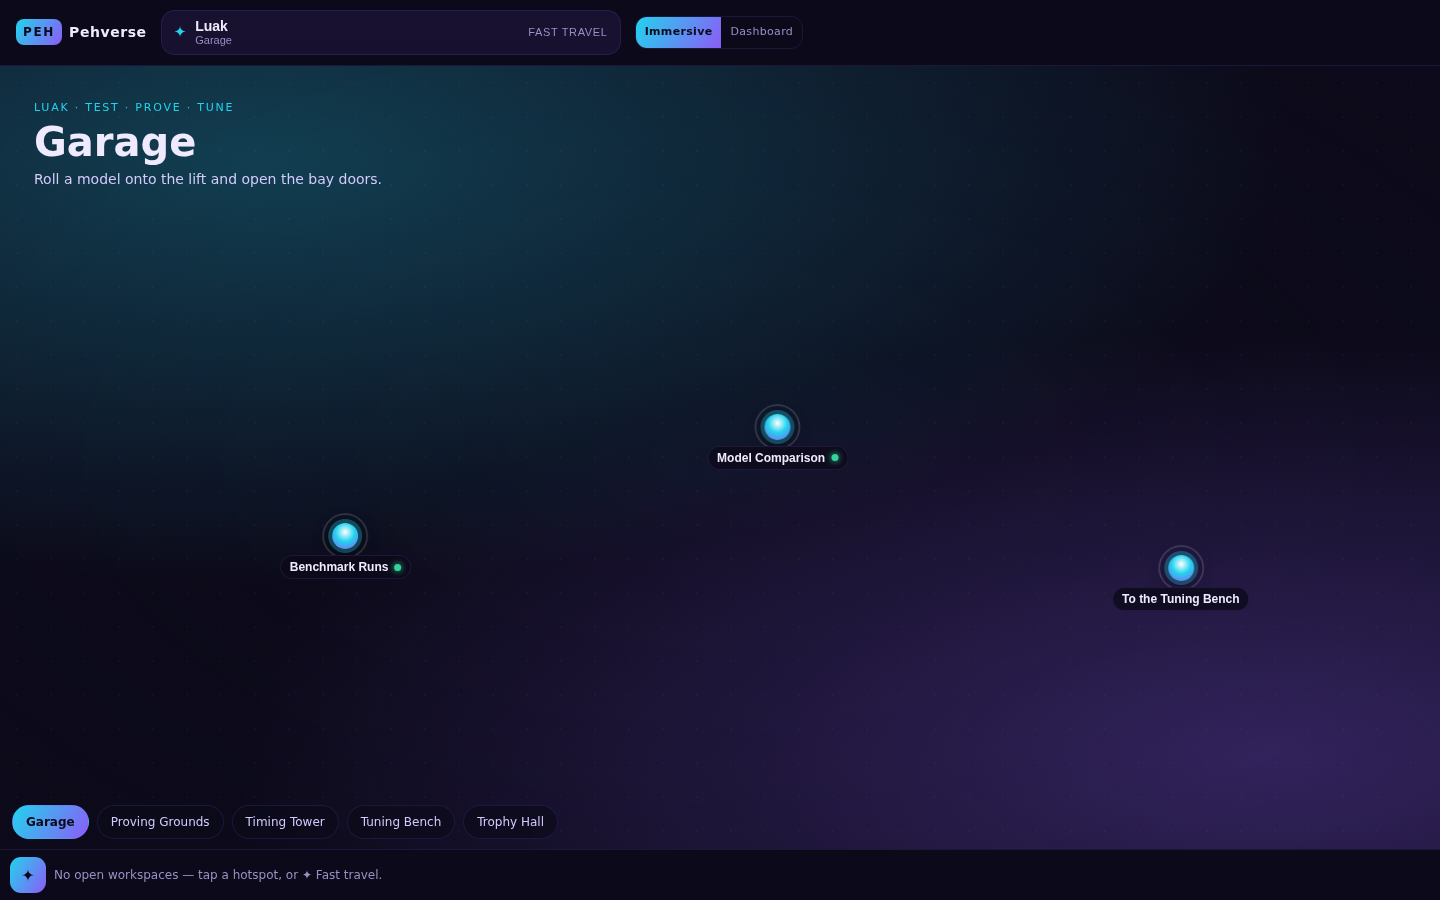
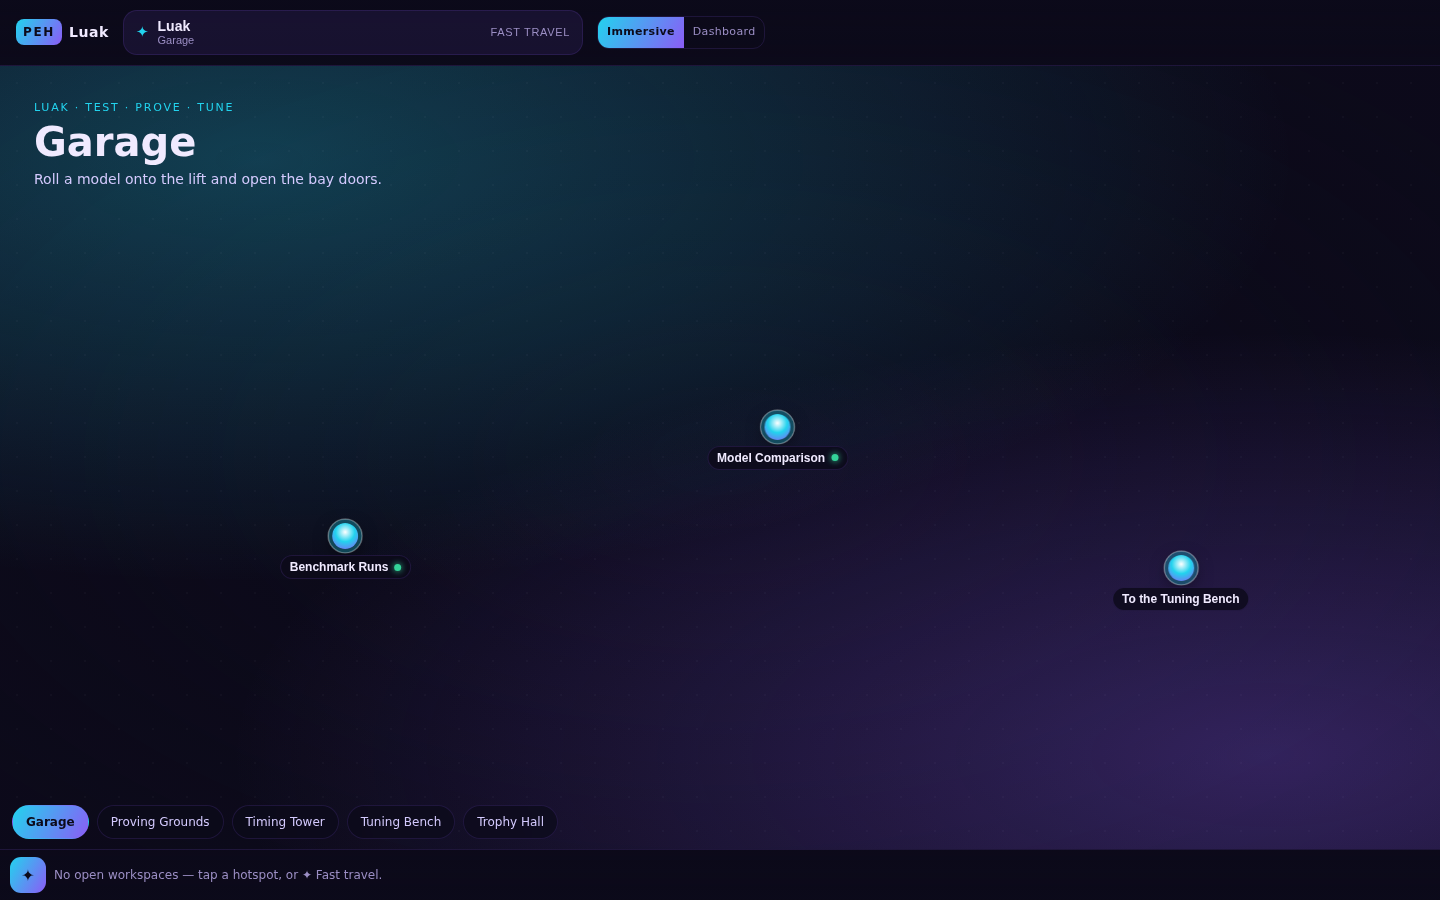
pehverse: document standalone product boundaries
Phase 1.2 — terminology cleanup + release-boundary hardening. Keeps the
Phase 1.1 single-product isolation behavior; clarifies wording and adds
guards so future work cannot drift back into a shared multi-product runtime.

Terminology cleanup (product / scene-area / workspace / Pehverse-as-ecosystem):
- Reworded engine comments that framed products as "realms inside one shared
  app" (now: standalone product, sub-area, no multi-product grid).
- Renamed the CSS class .peh-scene-realm -> .peh-scene-tag (markup + styles);
  same visuals.
- Removed dead Phase-1 multi-product fast-travel CSS (.peh-ft-realm*,
  .peh-ft-future, .peh-ft-soon, .peh-ft-mark) — fast travel never enumerates
  products. "realm" no longer appears in the engine as routing architecture
  (kept only as a comment noting the removed rules).

Docs (docs/PEHVERSE_WORLD_ENGINE.md):
- New "Pehverse is an ecosystem pattern, not a runtime router" section
  stating: each product owns its own world-shell; no cross-product navigation
  in release; the dev switcher is not a public feature; future products
  copy/instantiate the pattern rather than plug into one shared public shell.
- Defined the vocabulary (product / scene-area / workspace / Pehverse) and
  scoped "realm" to lore/branding only.

Tests (tests/pehverse-product-isolation.test.ts):
- Added a behavioural sandbox that extracts the pure isolation functions +
  registries and executes them with stubbed globals, proving at runtime:
[…]

Changed region(s): [[0.3438, 0.0, 0.5625, 0.0622], [0.0625, 0.0, 0.1562, 0.0622], [0.2188, 0.56, 0.25, 0.5911]]

diff --git a/tests/pehverse-product-isolation.test.ts b/tests/pehverse-product-isolation.test.ts
@@ -214,4 +214,122 @@ describe('Pehverse product isolation — runtime guards (source)', () => {
     assert.ok(!/function pehTravel\(/.test(HTML), 'legacy cross-product pehTravel must be removed');
     assert.ok(!HTML.includes('REALM_REGISTRY'), 'legacy REALM_REGISTRY must be renamed to PRODUCT_REGISTRY');
   });
+
+  it('"realm" is gone from the engine as routing architecture', () => {
+    // Phase 1.2 terminology cleanup: the engine block must not use "realm".
+    const engine = HTML.slice(HTML.indexOf('PEHVERSE WORLD ENGINE'));
+    assert.ok(!/\brealm\b/i.test(engine.replace(/\.peh-ft-realm/g, '')),
+      'engine code/comments must not use "realm" as routing architecture');
+  });
+});
+
+// ── Behavioural sandbox ────────────────────────────────────────────────
+// Extract the pure isolation functions + registries and execute them with
+// stubbed globals, so we prove the actual runtime guarantees (not just that
+// the source mentions a guard). The functions reference `state`, `window`,
+// `location`, `localStorage` — we supply those as constructor params (their
+// names are not reserved), giving each scenario fresh closures.
+function extractFn(name: string): string {
+  const anchor = HTML.indexOf('function ' + name + '(');
+  assert.ok(anchor > -1, `function ${name} not found`);
+  let i = anchor;
+  while (i < HTML.length && HTML[i] !== '{') i++;
+  let depth = 0;
+  let str: string | null = null;
+  let line = false;
+  let block = false;
+  for (; i < HTML.length; i++) {
+    const c = HTML[i];
+    const n = HTML[i + 1];
+    if (line) { if (c === '\n') line = false; continue; }
+    if (block) { if (c === '*' && n === '/') { block = false; i++; } continue; }
+    if (str) { if (c === '\\') { i++; continue; } if (c === str) str = null; continue; }
+    if (c === '/' && n === '/') { line = true; i++; continue; }
+    if (c === '/' && n === '*') { block = true; i++; continue; }
+    if (c === '"' || c === "'" || c === '`') { str = c; continue; }
+    if (c === '{') depth++;
+    else if (c === '}') { depth--; if (depth === 0) return HTML.slice(anchor, i + 1); }
+  }
+  throw new Error(`could not balance function ${name}`);
+}
+
+function makeStorage(seed: Record<string, string> = {}) {
+  const m = new Map<string, string>(Object.entries(seed));
+  return {
+    getItem: (k: string) => (m.has(k) ? m.get(k)! : null),
+    setItem: (k: string, v: string) => { m.set(k, String(v)); },
+    removeItem: (k: string) => { m.delete(k); },
+  };
+}
+
+const ENGINE_SRC = [
+  'const PRODUCT_REGISTRY=' + extractLiteral('PRODUCT_REGISTRY') + ';',
+  'const SCENE_REGISTRY=' + extractLiteral('SCENE_REGISTRY') + ';',
+  'const WORKSPACE_REGISTRY=' + extractLiteral('WORKSPACE_REGISTRY') + ';',
+  (HTML.match(/const PEH_DEFAULT_PRODUCT='[^']+';/) || ['const PEH_DEFAULT_PRODUCT=\'luak\';'])[0],
+  extractFn('pehProduct'),
+  extractFn('pehPublicProducts'),
+  extractFn('pehFutureProducts'),
+  extractFn('pehScenes'),
+  extractFn('pehScene'),
+  extractFn('pehWorkspaceDef'),
+  extractFn('pehDevMode'),
+  extractFn('pehResolveActiveProduct'),
+  extractFn('pehActiveProduct'),
+  extractFn('pehActiveProductId'),
+  extractFn('pehWorkspaceBelongsToActive'),
+].join('\n');
+
+// eslint-disable-next-line @typescript-eslint/no-implied-eval
+const makeEngine = new Function(
+  'state', 'window', 'location', 'localStorage',
+  ENGINE_SRC + '\nreturn {pehResolveActiveProduct,pehActiveProductId,pehWorkspaceBelongsToActive,pehDevMode};',
+) as (state: any, window: any, location: any, localStorage: any) => any;
+
+function engine(opts: { product?: string; win?: any; ls?: Record<string, string> } = {}) {
+  const state = { pehverse: { product: opts.product ?? 'luak' } };
+  return makeEngine(state, opts.win ?? {}, undefined, makeStorage(opts.ls));
+}
+
+describe('Pehverse product isolation — runtime behaviour (sandbox)', () => {
+  it('default runtime resolves to the single default product (luak)', () => {
+    const e = engine();
+    assert.equal(e.pehResolveActiveProduct(), 'luak');
+    assert.equal(e.pehDevMode(), false, 'dev mode must be off by default → no switcher in release');
+  });
+
+  it('a private product can NEVER become active (build flag ignored)', () => {
+    assert.equal(engine({ win: { PEHVERSE_PRODUCT: 'symposium' } }).pehResolveActiveProduct(), 'luak');
+    // Even if state is tampered to a private product, the active accessor falls back.
+    assert.equal(engine({ product: 'symposium' }).pehActiveProductId(), 'luak');
+  });
+
+  it('a future product can NEVER become active (build flag ignored)', () => {
+    assert.equal(engine({ win: { PEHVERSE_PRODUCT: 'kokuli' } }).pehResolveActiveProduct(), 'luak');
+    assert.equal(engine({ product: 'toba' }).pehActiveProductId(), 'luak');
+  });
+
+  it('the dev localStorage override is IGNORED unless dev mode is on', () => {
+    // Saved product but no dev flag → stays default.
+    assert.equal(engine({ ls: { 'pehverse-product': 'trials' } }).pehResolveActiveProduct(), 'luak');
+    // Dev flag on → override honored (dev/demo only).
+    const dev = engine({ ls: { 'pehverse-dev': '1', 'pehverse-product': 'trials' } });
+    assert.equal(dev.pehDevMode(), true);
+    assert.equal(dev.pehResolveActiveProduct(), 'trials');
+  });
+
+  it('a valid build flag selects the product (Option A, one per runtime)', () => {
+    assert.equal(engine({ win: { PEHVERSE_PRODUCT: 'trials' } }).pehResolveActiveProduct(), 'trials');
+  });
+
+  it('cross-product workspace ownership is enforced both directions', () => {
+    const luak = engine({ product: 'luak' });
+    assert.equal(luak.pehWorkspaceBelongsToActive(WORKSPACES['benchmark-runs']), true);
+    assert.equal(luak.pehWorkspaceBelongsToActive(WORKSPACES['adversarial-trials']), false, 'Luak must not open a Kobli workspace');
+    assert.equal(luak.pehWorkspaceBelongsToActive(WORKSPACES['console']), true, 'null-product console is per-product');
+
+    const trials = engine({ product: 'trials' });
+    assert.equal(trials.pehWorkspaceBelongsToActive(WORKSPACES['adversarial-trials']), true);
+    assert.equal(trials.pehWorkspaceBelongsToActive(WORKSPACES['benchmark-runs']), false, 'Kobli must not open a Luak workspace');
+  });
 });

diff --git a/ui/crucibulum.css b/ui/crucibulum.css
@@ -2638,7 +2638,7 @@ body::after {
    world-map / theme-park hub with tappable hotspot pins and full-screen
    bottom-sheet workspaces. Desktop (≥880px) gains docked side/bottom/
    fullscreen panels and a multi-tile dashboard grid. All colour comes
-   from the per-realm --peh-accent / --peh-accent2 set inline on .peh-shell.
+   from the active product's --peh-accent / --peh-accent2 set inline on .peh-shell.
    ══════════════════════════════════════════════════════════════════════ */
 #app:has(.peh-shell){padding:0}
 
@@ -2705,7 +2705,7 @@ body::after {
   background-size:34px 34px;opacity:.5;mix-blend-mode:screen;
 }
 .peh-scene-caption{position:relative;z-index:2;padding:18px 16px 4px;max-width:560px}
-.peh-scene-realm{font-size:11px;letter-spacing:.16em;text-transform:uppercase;color:var(--peh-accent)}
+.peh-scene-tag{font-size:11px;letter-spacing:.16em;text-transform:uppercase;color:var(--peh-accent)}
 .peh-scene-title{font-size:clamp(24px,7vw,40px);line-height:1.05;margin:4px 0 6px;font-weight:800}
 .peh-scene-desc{font-size:14px;color:var(--ink-soft);margin:0;max-width:46ch}
 
@@ -2735,7 +2735,7 @@ body::after {
 .peh-hotspot:focus-visible{outline:none}
 .peh-hotspot:focus-visible .peh-hotspot-label{outline:2px solid var(--peh-accent);outline-offset:2px}
 
-/* ── Waypoints (intra-realm scene hops) ────────────────────────────── */
+/* ── Waypoints (intra-product scene hops) ──────────────────────────── */
 .peh-waypoints{
   position:absolute;left:0;right:0;bottom:10px;z-index:4;
   display:flex;gap:8px;padding:0 12px;overflow-x:auto;scrollbar-width:none;
@@ -2799,7 +2799,7 @@ body::after {
 /* ── Dashboard mode ────────────────────────────────────────────────── */
 .peh-dash{flex:1 1 auto;min-height:0;display:flex;flex-direction:column;overflow:auto}
 .peh-dash-head{padding:14px 14px 6px;border-bottom:1px solid var(--border-subtle)}
-.peh-dash-here .peh-scene-realm{display:block}
+.peh-dash-here .peh-scene-tag{display:block}
 .peh-dash-here h1{font-size:clamp(20px,5vw,28px);margin:2px 0 4px;font-weight:800}
 .peh-dash-here p{margin:0 0 8px;color:var(--ink-soft);font-size:13px;max-width:56ch}
 .peh-dash .peh-waypoints{position:static;padding:0;margin-top:4px}
@@ -2868,22 +2868,13 @@ body::after {
 .peh-ft-hint{flex:1 1 auto;font-size:11px;color:var(--ink-dim);letter-spacing:.04em}
 .peh-ft-close{width:34px;height:34px;border-radius:10px;border:1px solid var(--border-subtle);background:transparent;color:var(--ink);font-size:18px;cursor:pointer}
 .peh-ft-close:hover{background:rgba(236,72,153,.2)}
-.peh-ft-realms{display:grid;grid-template-columns:1fr;gap:12px;padding:14px 16px}
-.peh-ft-realm{border:1px solid var(--border-subtle);border-radius:16px;padding:12px;background:linear-gradient(160deg,color-mix(in srgb,var(--peh-accent) 10%,transparent),rgba(12,10,26,.3))}
-.peh-ft-realm.here{border-color:color-mix(in srgb,var(--peh-accent) 60%,var(--border-subtle))}
-.peh-ft-realm-head{display:flex;align-items:center;gap:11px;width:100%;cursor:pointer;background:transparent;border:0;color:var(--ink);text-align:left;padding:2px}
-.peh-ft-mark{color:var(--peh-accent);display:inline-flex}
-.peh-ft-mark .peh-glyph{width:28px;height:28px}
-.peh-ft-realm-name{display:flex;flex-direction:column;line-height:1.2}
-.peh-ft-realm-name b{font-size:16px;font-weight:800}
-.peh-ft-realm-name i{font-style:normal;font-size:11px;color:var(--ink-dim);letter-spacing:.04em}
+/* Fast travel is product-LOCAL: a flat list of the active product's scenes.
+   (The Phase 1 multi-product .peh-ft-realm* rules were removed in 1.2 — fast
+   travel never enumerates products.) */
 .peh-ft-scenes{display:flex;flex-wrap:wrap;gap:7px;margin-top:10px}
 .peh-ft-scene{font:inherit;font-size:12px;padding:6px 11px;border-radius:999px;cursor:pointer;background:rgba(12,10,26,.6);border:1px solid var(--border-subtle);color:var(--ink-soft)}
 .peh-ft-scene:hover{color:var(--ink);border-color:var(--peh-accent)}
 .peh-ft-scene.active{background:linear-gradient(120deg,var(--peh-accent),var(--peh-accent2));color:#0c0a1a;font-weight:700;border-color:transparent}
-.peh-ft-future{display:flex;flex-wrap:wrap;align-items:center;gap:8px;padding:6px 18px 22px}
-.peh-ft-future-label{font-size:10px;letter-spacing:.14em;text-transform:uppercase;color:var(--ink-dim)}
-.peh-ft-soon{font-size:11px;padding:5px 10px;border-radius:999px;border:1px dashed var(--border-subtle);color:var(--ink-dim)}
 
 /* ══════════════════════════════════════════════════════════════════════
    DESKTOP (≥880px) — docked panels, multi-tile dashboard, expanded chrome
@@ -2910,7 +2901,6 @@ body::after {
 
   .peh-ft-overlay{align-items:center}
   .peh-ft{border-radius:20px;max-height:82vh}
-  .peh-ft-realms{grid-template-columns:1fr 1fr}
   .peh-task-name{max-width:180px}
 }
 

diff --git a/ui/index.html b/ui/index.html
@@ -6191,7 +6191,7 @@ const PRODUCT_REGISTRY=[
    tagline:'Test · Prove · Tune', blurb:'Drive a model hard, measure it, tune it, and bank the proof.',
    accent:'#22d3ee', accent2:'#8b5cf6', peh:'wrench', defaultScene:'garage'},
   // trials product — displayName is data-driven ("Kobli" or "Colosseum").
-  // A standalone product, NOT a realm sitting beside Luak in one app.
+  // A standalone product — NOT a sub-area sitting beside Luak in one shared app.
   {id:'trials', displayName:'Kobli', status:'public', order:1,
    tagline:'Endure · Survive · Repeat', blurb:'Trials, pressure, and the scars that prove endurance.',
    accent:'#ec4899', accent2:'#f59e0b', peh:'shield', defaultScene:'arena-gate'},
@@ -6480,8 +6480,8 @@ function pehGlyph(key){
 }
 
 // ── PehverseShell: top-level renderer (called by render()) ─────────────
-// Everything below is scoped to the single active product. No realm grid,
-// no cross-product runtime — one product's scenes, hotspots, and workspaces.
+// Everything below is scoped to the single active product. No multi-product
+// grid, no cross-product runtime — one product's scenes, hotspots, workspaces.
 function renderPehverse(deckMarkup){
   const pv=state.pehverse;
   const product=pehActiveProduct();
@@ -6525,7 +6525,7 @@ function renderPehImmersive(product,scene,deckMarkup){
   return `<div class="peh-scene" data-scene="${scene?scene.id:''}">
     <div class="peh-scene-atmos" aria-hidden="true"></div>
     <div class="peh-scene-caption">
-      <span class="peh-scene-realm">${esc(product.displayName)} · ${esc(product.tagline)}</span>
+      <span class="peh-scene-tag">${esc(product.displayName)} · ${esc(product.tagline)}</span>
       <h1 class="peh-scene-title">${esc(scene?scene.title:product.displayName)}</h1>
       <p class="peh-scene-desc">${esc(scene?scene.desc:product.blurb)}</p>
     </div>
@@ -6544,7 +6544,7 @@ function renderPehDashboard(product,scene,deckMarkup){
     : pehWorkspaceChooser(product);
   return `<div class="peh-dash">
     <div class="peh-dash-head">
-      <div class="peh-dash-here"><span class="peh-scene-realm">${esc(product.displayName)}</span><h1>${esc(scene?scene.title:product.displayName)}</h1><p>${esc(scene?scene.desc:product.blurb)}</p></div>
+      <div class="peh-dash-here"><span class="peh-scene-tag">${esc(product.displayName)}</span><h1>${esc(scene?scene.title:product.displayName)}</h1><p>${esc(scene?scene.desc:product.blurb)}</p></div>
       ${renderPehWaypoints(product,scene)}
     </div>
     <div class="peh-grid ${open.length>1?'multi':''}">${grid}</div>

diff --git a/docs/PEHVERSE_WORLD_ENGINE.md b/docs/PEHVERSE_WORLD_ENGINE.md
@@ -5,19 +5,33 @@ navigation shell that wraps a product's functional UI. It replaces the
 SaaS-dashboard feel with a sense of *visiting a place*: the world is
 navigation, the windows are work.
 
-> **Product isolation (Phase 1.1).** Each public product (Luak, Kobli, …) is a
-> **completely standalone app**. Products belong to the Pehverse ecosystem by
-> name, theme, design language, and purpose **only** — there is **no
-> cross-product runtime navigation**. Exactly **one** product is live per
-> runtime. Luak cannot open Kobli's workspaces and vice versa; Fast Travel
-> jumps between *areas (scenes) inside the active product* only.
->
-> This is a reusable *pattern*, not a global multi-product runtime. Future
-> products are **config/doc examples**, not runtime destinations, until each
-> ships as its own product.
+## Pehverse is an ecosystem pattern, not a runtime router
+
+**Pehverse is the shared ecosystem — naming, design language, UX philosophy,
+and mythology — NOT a runtime that routes between products.** Each product
+**owns its own world-shell**: it instantiates this engine with its own
+products-of-one config, scenes, and workspaces, and ships standalone.
+
+- **Each product is a completely standalone app.** Luak and Kobli launch
+  together, but they are still **separate products** — separate shells,
+  separate deployments.
+- **No cross-product navigation in release.** Exactly **one** product is live
+  per runtime. Luak cannot open Kobli's workspaces and vice versa; Fast Travel
+  jumps only between *areas (scenes) inside the active product*.
+- **The dev switcher is not a public feature.** It exists purely for local
+  development/demo convenience and is hidden whenever dev mode is off.
+- **Future products copy/instantiate the pattern** — they are **not** plugged
+  into one shared public shell. The terms below define the vocabulary:
+  - **product** — a standalone app / the product boundary.
+  - **scene / area** — a place *inside* the current product.
+  - **workspace** — a functional panel opened *inside* the current product.
+  - **Pehverse** — the ecosystem & design language (lore/branding), never a
+    runtime router. The word *realm* belongs to lore/branding copy, never to
+    routing architecture.
 
 > **Public release / build order** (informational — each ships as its own
-> standalone product, not as a realm added to one shared app):
+> standalone product, instantiating this pattern, never plugged into one
+> shared app):
 > Luak + Kobli/Colosseum (`trials`) → Kokuli → Toba → Nusika → Aiiska +
 > Peh-pub → **Symposium / name TBD** (lab-only, `private`, built last; must
 > **reuse this engine, never define it**, and is absent from all navigation).
@@ -92,8 +106,17 @@ one-field data edit that breaks nothing.
 
 ## How to add the next product (e.g. Kokuli) — as a STANDALONE product
 
-Each product is its own standalone app. Adding one is data; it does **not**
-make it reachable from inside another product at runtime.
+Each product is its own standalone app. The right model is to **copy /
+instantiate the pattern** for the new product (its own world-shell, ideally
+its own deployment) — **never plug it into one shared public shell**. Adding
+a product to the registries is config; it does **not** make it reachable from
+inside another product at runtime.
+
+> The steps below show how the registries hold a product's data. In a
+> standalone deployment that product would be the one selected by
+> `window.PEHVERSE_PRODUCT` / `PEH_DEFAULT_PRODUCT`; the others remain
+> `future` config examples. Co-registering Luak and Kobli here is the
+> launch-together pair plus dev convenience — not a shared public runtime.
 
 ### 1. Flip the product from `future` to `public` in `PRODUCT_REGISTRY`
 
